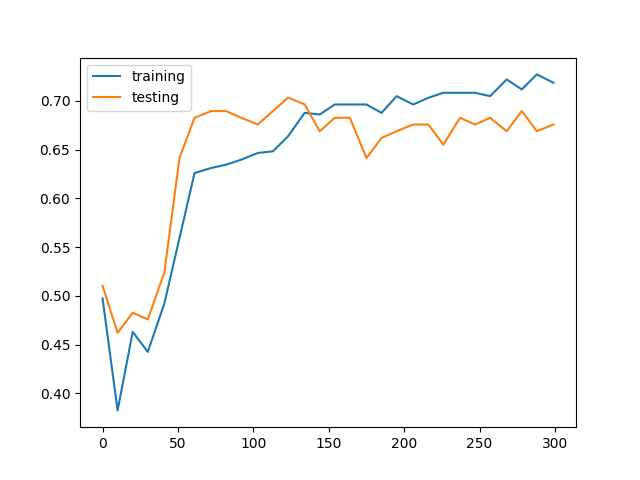
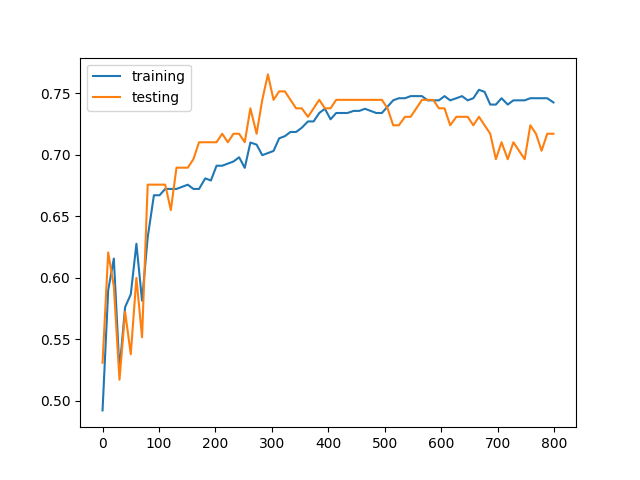
update

diff --git a/ml/rnn.py b/ml/rnn.py
@@ -28,7 +28,10 @@ class createRNN():
 
 
     def getMultiLayer(self, layers=2, lstm=False, neurons=20, activate=tf.nn.leaky_relu):
-        multi_cell = tf.contrib.rnn.MultiRNNCell([self.getRNNCells(lstm=True, n_neurons=neurons, activate=activate) for layer in range(layers)], state_is_tuple=False)
+        if layers > 1:
+            multi_cell = tf.contrib.rnn.MultiRNNCell([self.getRNNCells(lstm=True, n_neurons=neurons, activate=activate) for layer in range(layers)], state_is_tuple=False)
+        else:
+            return self.getRNNCells(lstm, n_neurons=neurons, activate=activate)
         return multi_cell
 
 
@@ -57,7 +60,7 @@ class createRNN():
         #uneven sequence length
         seq_length = tf.placeholder(tf.int32, [None])
 
-        outputs, states = tf.nn.dynamic_rnn(self.getMultiLayer(layers=2, lstm=True), x, dtype=tf.float32, sequence_length=seq_length)
+        outputs, states = tf.nn.dynamic_rnn(self.getMultiLayer(layers=1, lstm=True), x, dtype=tf.float32, sequence_length=seq_length)
         #stat_outputs, stat_states = tf.nn.static_rnn(lstm_cell)
         #states = tf.reshape(states, [n_samples, None])
         logits = tf.layers.dense(states, 2)
@@ -98,7 +101,7 @@ class createRNN():
             accuracies_test = []
             epochs = []
             #train network
-            num_epochs = 300
+            num_epochs = 800
             for epoch in range(num_epochs):
                 _, preds = sess.run((optimize, prediction), feed_dict={x: inputs, y: y_output, seq_length: train_seq_len})
                 
